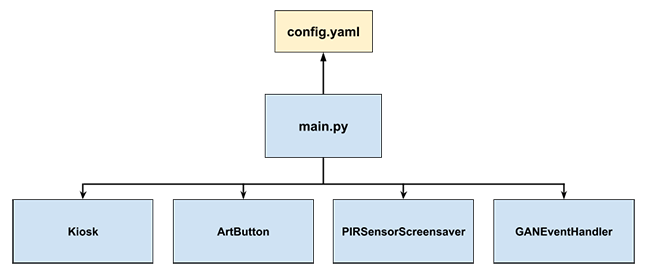
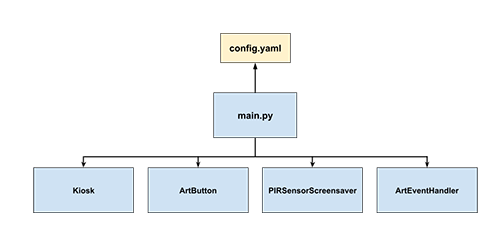
Update README

Changed region(s): [[0.0, 0.0304, 0.99, 0.9739], [0.33, 0.7913, 0.45, 0.8826]]

diff --git a/README.md b/README.md
@@ -288,8 +288,19 @@ image directory, GPIO pinouts used etc).
 | **Kiosk**                      | kiosk/kiosk.py             |The `Kiosk` process handles all the GUI: toggling (\<F11>) and ending (\<Escape>) fullscreen, listens to change of the active artwork to be displayed etc.                                                                                                                                                                                                                                            |
 | **ArtButton**                  | kiosk/artbutton.py         |The `ArtButton` process listens to a GPIO pinout connected to a button. When the button is pushed and the GPIO is triggered, it replaces the active artwork file with a random image sampled from the image directory.                                                                                                   |
 | **PIRSensorScreensaver**       | kiosk/pirsensorscreensaver |The `PIRSensorScreensaver` process listens to a GPIO pinout connected to a PIR sensor. When no motion has triggered the PIR sensor within a predefined threshold of seconds, the computer's screensaver is activated. When motion is detected, the screensaver is deactivated.                                              |
-| **GANEventHandler**            | ml/StyleGAN.py             |The `GANEventHandler` process is listening to deleted items in the image directory. When the button is clicked and an image is deleted (i.e. moved to replace the active artwork file, active_artwork.jpg), this process checks how many images that are left in the image directory. If the number of images  are below a predefined threshold, a new process is spawned, generating a new set of images using a GAN network. |
+| **ArtEventHandler**            | kiosk/art_event_handler.py             |The `ArtEventHandler` process is listening to deleted items in the image directory. When the button is clicked and an image is deleted (i.e. moved to replace the active artwork file, active_artwork.jpg), this process checks how many images that are left in the image directory. If the number of images falls are below a predefined threshold, a new process (function) is spawned, generating a new set of images. You need to update this class to generate the images. |
 
+# Add your generative code
+To add your own generative code (GAN-network or others), you need to update two files:
+
+* kiosk/arteventhandler.py
+* main.py
+
+## kiosk/arteventhandler.py
+The class `ArtEventHandler` found in the file `kiosk/arteventhandler.py` is an event handler that is triggered to generate new images to be saved in the image directory. When an image is deleted from the image directory (i.e. moved to replace the active artwork), the class function `on_deleted` is executed. It checks if the number of images found in the image directory is above a pre-defined threshold. If the number of images falls below the threshold, the class function `generate_images` is executed. It is in this function that you need to add your generative code that shall add new images to the image directory.
+
+## main.py
+If you have updated the constructor arguments for the class `ArtEventHandler` to pass your generative specific arguments, you need to update the initialization of `ArtEventHandler` in the function `start_art_generator` found in `main.py`.
 
 # Build the control box
 To get a nice looking installation with as few visible cables as possible, a control box was built to encapsulate the Nvidia computer, power adapters, Samsung One Connect box etc.
